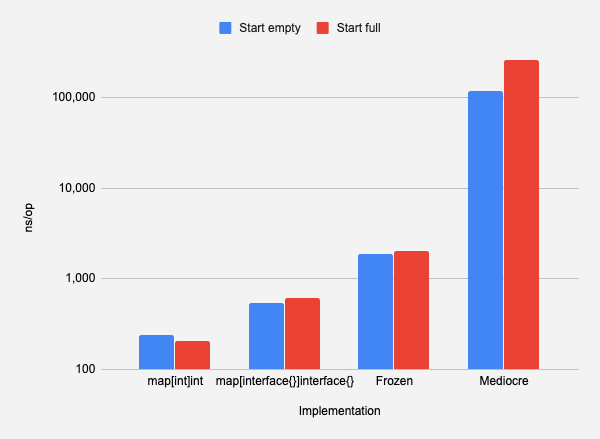
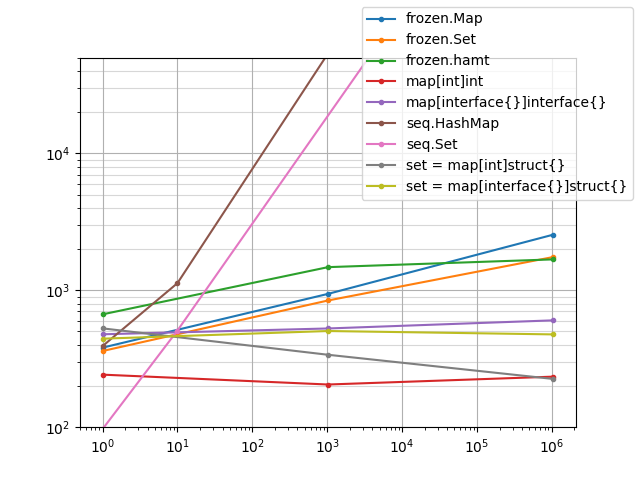
More benchmarks + script to generate

diff --git a/README.md b/README.md
@@ -16,25 +16,57 @@ The following benchmarks test the base HAMT implementation against several other
 key-value map implementations. All implementations are tested for insertions
 against an empty map and a map prepopulated with one million elements, except
 for github.com/mediocregopher/seq, which only has 10k elements prepopulated to
-avoid timeouts. In order of appearance in the benchmark (fastest to
-slowest) the implementations are as follows:
+avoid timeouts. In order of appearance in the benchmark, the implementations are
+as follows:
 
-1. `map[int]int`
-2. `map[interface{}]interface{}`
-3. `github.com/marcelocantos/frozen/pkg/frozen` (this library's HAMT)
-4. `github.com/mediocregopher/seq`
+| Benchmark       | Type                           |
+| --------------- | ------------------------------ |
+| FrozenHamt      | frozen.hamt                    |
+| FrozenMap       | frozen.Map                     |
+| FrozenSet       | frozen.Set                     |
+| MapInt          | map[int]int                    |
+| MapInterface    | map[interface{}]interface{}    |
+| MediocreHashMap | seq.HashMap                    |
+| MediocreSet     | seq.Set                        |
+| SetInt          | set = map[int]struct{}         |
+| SetInterface    | set = map[interface{}]struct{} |
 
 In all cases, ints are mapped to ints.
 
-```
-BenchmarkInsertMapInt0-8          	 5082399	       236 ns/op	      69 B/op	       0 allocs/op
-BenchmarkInsertMapInt1M-8         	 5285689	       204 ns/op	      53 B/op	       0 allocs/op
-BenchmarkInsertMapInterface0-8    	 2111479	       533 ns/op	     170 B/op	       2 allocs/op
-BenchmarkInsertMapInterface1M-8   	 3187671	       606 ns/op	     169 B/op	       2 allocs/op
-BenchmarkInsertFrozen0-8          	 1000000	      1865 ns/op	    1028 B/op	      11 allocs/op
-BenchmarkInsertFrozen1M-8         	  746131	      2001 ns/op	    1103 B/op	      11 allocs/op
-BenchmarkInsertMediocre0-8        	   14637	    118630 ns/op	   73455 B/op	     463 allocs/op
-BenchmarkInsertMediocre10k-8      	    9183	    261775 ns/op	  146185 B/op	     917 allocs/op
+```bash
+$ go test -run ^$ -cpuprofile cpu.prof -memprofile mem.prof -benchmem -bench ^BenchmarkInsert ./...
+goos: darwin
+goarch: amd64
+pkg: github.com/marcelocantos/frozen/pkg/frozen
+BenchmarkInsertFrozenHamt0-8          	 2175505	       667 ns/op	    1182 B/op	       5 allocs/op
+BenchmarkInsertFrozenHamt1k-8         	 1342575	      1475 ns/op	    1154 B/op	       6 allocs/op
+BenchmarkInsertFrozenHamt1M-8         	  653156	      1681 ns/op	    1266 B/op	       6 allocs/op
+BenchmarkInsertMapInt0-8              	 4456830	       242 ns/op	      79 B/op	       0 allocs/op
+BenchmarkInsertMapInt1k-8             	 5691613	       205 ns/op	      63 B/op	       0 allocs/op
+BenchmarkInsertMapInt1M-8             	 6212853	       234 ns/op	      99 B/op	       0 allocs/op
+BenchmarkInsertMapInterface0-8        	 2402386	       477 ns/op	     151 B/op	       2 allocs/op
+BenchmarkInsertMapInterface1k-8       	 2218449	       526 ns/op	     162 B/op	       2 allocs/op
+BenchmarkInsertMapInterface1M-8       	 2805478	       603 ns/op	     189 B/op	       2 allocs/op
+BenchmarkInsertFrozenMap0-8           	 2766694	       381 ns/op	     480 B/op	       6 allocs/op
+BenchmarkInsertFrozenMap1k-8          	 1259384	       941 ns/op	     882 B/op	       6 allocs/op
+BenchmarkInsertFrozenMap1M-8          	  430938	      2549 ns/op	    1266 B/op	       6 allocs/op
+BenchmarkInsertMediocreHashMap0-8     	 3554623	       391 ns/op	     120 B/op	       4 allocs/op
+BenchmarkInsertMediocreHashMap10-8    	  943761	      1127 ns/op	     530 B/op	       7 allocs/op
+BenchmarkInsertMediocreHashMap10k-8   	    5233	    365611 ns/op	  102840 B/op	     646 allocs/op
+BenchmarkInsertSetInt0-8              	 2300034	       527 ns/op	      43 B/op	       0 allocs/op
+BenchmarkInsertSetInt1k-8             	 3203769	       338 ns/op	      33 B/op	       0 allocs/op
+BenchmarkInsertSetInt1M-8             	 5868884	       225 ns/op	      59 B/op	       0 allocs/op
+BenchmarkInsertSetInterface0-8        	 2779015	       443 ns/op	      70 B/op	       1 allocs/op
+BenchmarkInsertSetInterface1k-8       	 2192677	       504 ns/op	      86 B/op	       1 allocs/op
+BenchmarkInsertSetInterface1M-8       	 3472974	       476 ns/op	      82 B/op	       1 allocs/op
+BenchmarkInsertFrozenSet0-8           	 3246156	       360 ns/op	     440 B/op	       3 allocs/op
+BenchmarkInsertFrozenSet1k-8          	 1310988	       842 ns/op	     842 B/op	       4 allocs/op
+BenchmarkInsertFrozenSet1M-8          	  651750	      1750 ns/op	    1226 B/op	       4 allocs/op
+BenchmarkInsertMediocreSet0-8          	11555031	        96.9 ns/op	      72 B/op	       2 allocs/op
+BenchmarkInsertMediocreSet10-8         	 2205480	       508 ns/op	     482 B/op	       4 allocs/op
+BenchmarkInsertMediocreSet10k-8        	    9410	    113726 ns/op	  102784 B/op	     643 allocs/op
+PASS
+ok  	github.com/marcelocantos/frozen/pkg/frozen	417.918s
 ```
 
 
